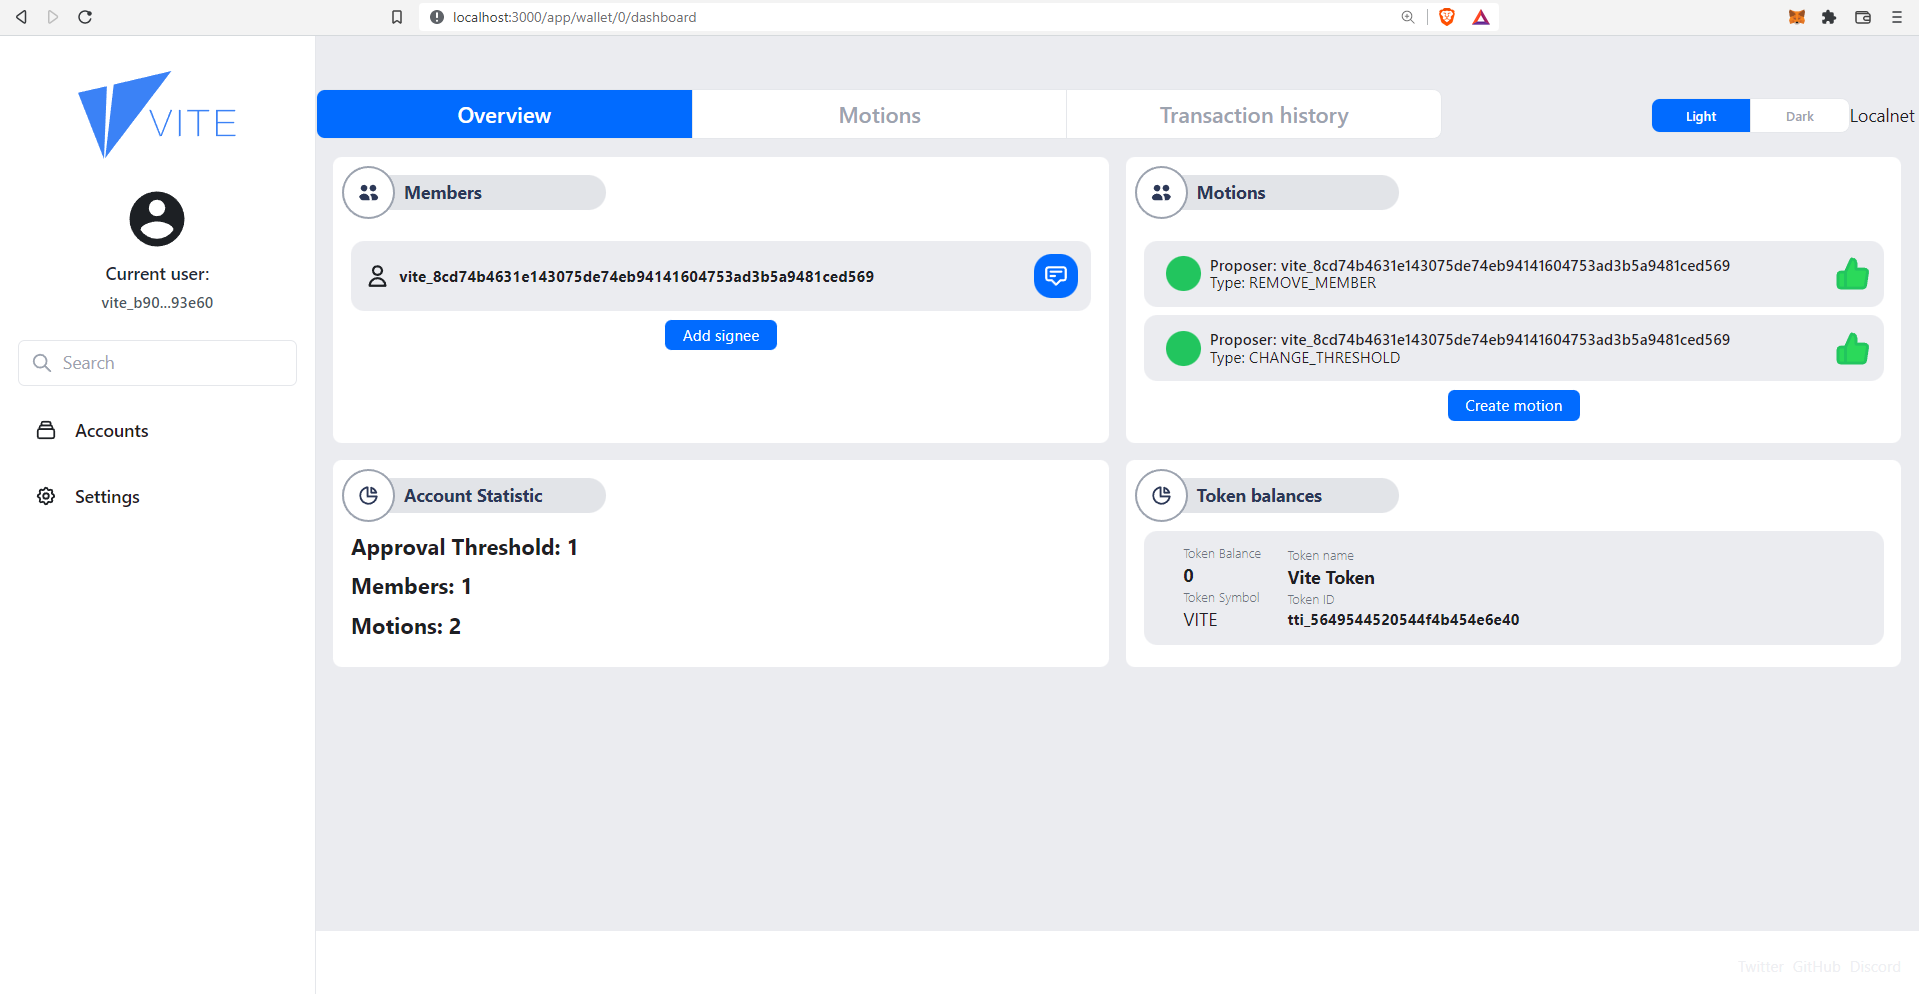
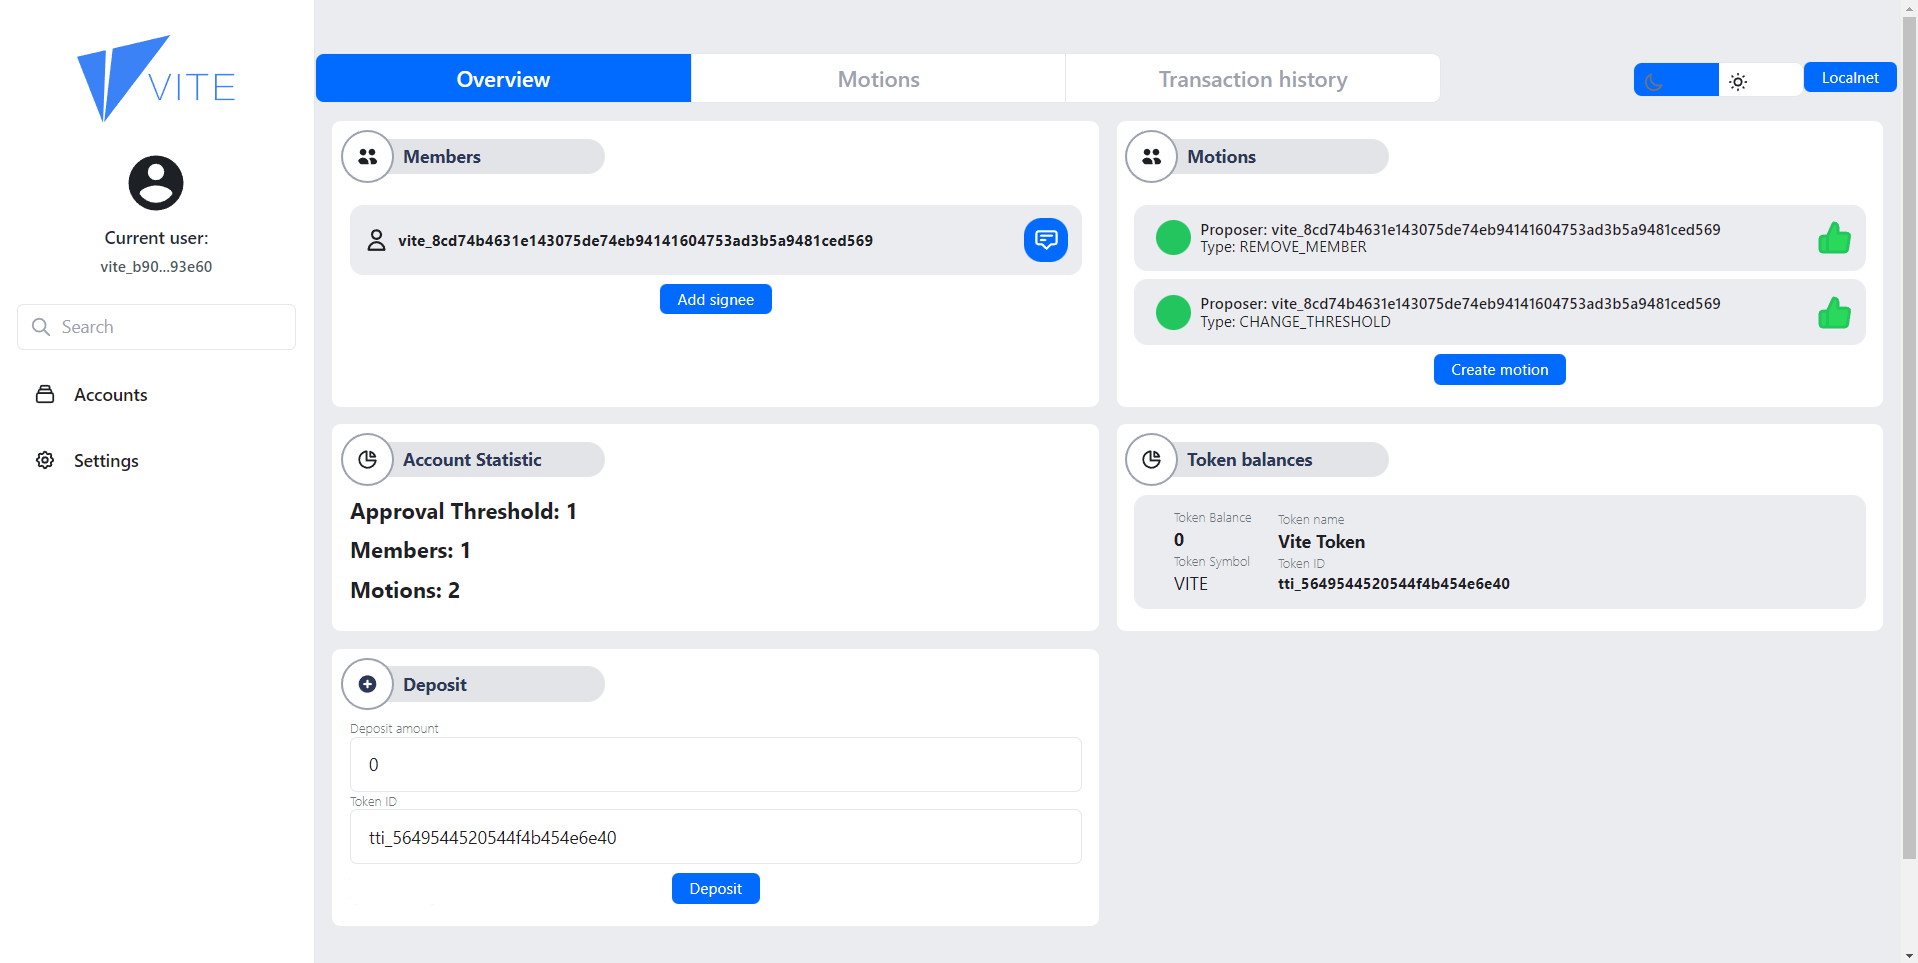
fix

diff --git a/frontend/src/pages/JointWalletDashboard.tsx b/frontend/src/pages/JointWalletDashboard.tsx
@@ -345,27 +345,36 @@ const JointWalletDashboard = ({ i18n, vcInstance, callContract }: Props) => {
 			</LabelCard>
 			<LabelCard title="Deposit" svgIcon={<PlusCircleIcon />} className="col-span-3">
 				<div>
-					<p className="text-gray-500  ml-2 text-xs font-extralight">Deposit amount</p>
-					<input
-						value={deposit.amount}
-						onChange={(e) => setDeposit({ ...deposit, amount: parseInt(e.target.value) })}
-					/>
-					<p className="text-gray-500  ml-2 text-xs font-extralight">Token ID</p>
-					<input
-						value={deposit.viteTokenId}
-						onChange={(e) => setDeposit({ ...deposit, viteTokenId: e.target.value })}
-					/>
-					<button
-						onClick={async () =>
-							await callContract(JointAccountContract, 'deposit', [
-								deposit.amount,
-								deposit.viteTokenId,
-								accountId,
-							])
-						}
-					>
-						Deposit
-					</button>
+					<div>
+						<p className="text-gray-500   text-xs font-extralight">Deposit amount</p>
+						<input
+							value={deposit.amount}
+							className="text-input"
+							onChange={(e) => setDeposit({ ...deposit, amount: parseInt(e.target.value) })}
+						/>
+					</div>
+					<div>
+						<p className="text-gray-500 text-xs font-extralight">Token ID</p>
+						<input
+							className="text-input"
+							value={deposit.viteTokenId}
+							onChange={(e) => setDeposit({ ...deposit, viteTokenId: e.target.value })}
+						/>
+					</div>
+					<div className="flex justify-center ">
+						<button
+							className="primarybtn mt-2"
+							onClick={async () =>
+								await callContract(JointAccountContract, 'deposit', [
+									deposit.amount,
+									deposit.viteTokenId,
+									accountId,
+								])
+							}
+						>
+							Deposit
+						</button>
+					</div>
 				</div>
 			</LabelCard>
 		</div>
